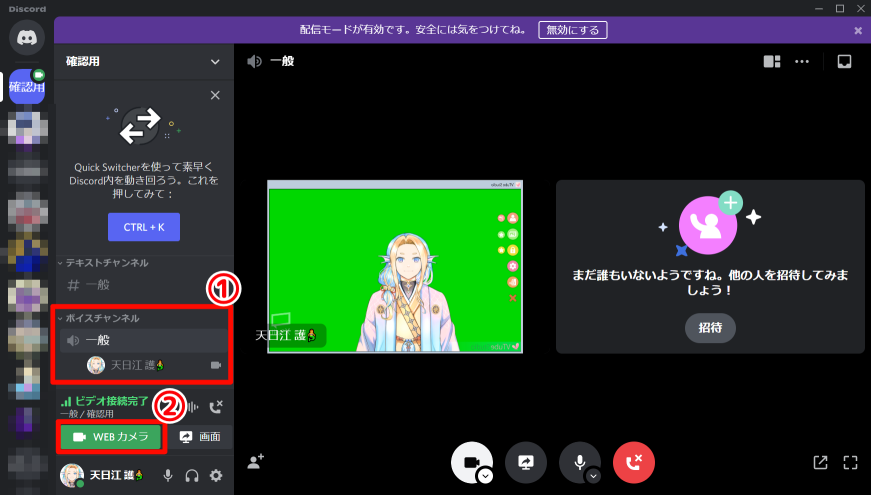
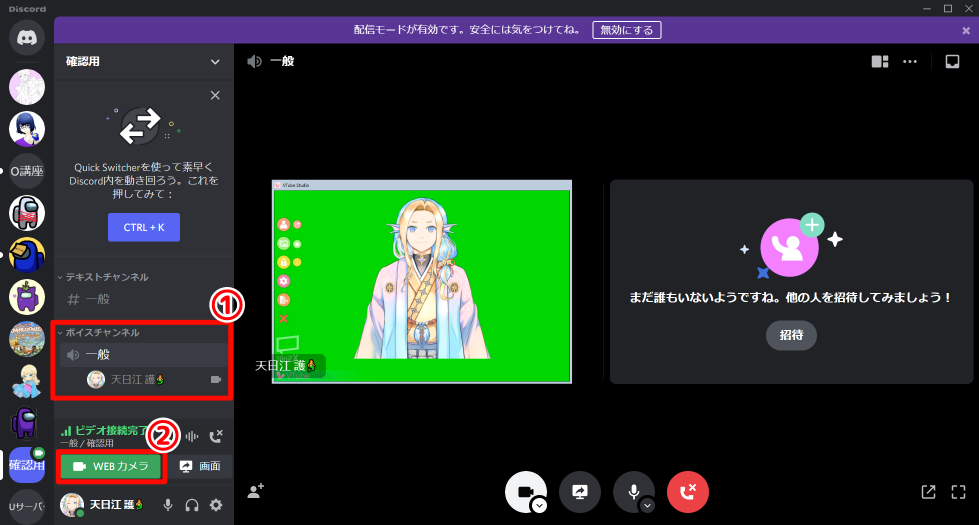
update streaming03

Changed region(s): [[0.0, 0.0, 1.0, 1.0], [0.496, 0.8788, 0.775, 1.0], [0.93, 0.9091, 0.992, 0.9697]]

diff --git a/src/components/KnowHow/Streaming01.tsx b/src/components/KnowHow/Streaming01.tsx
@@ -4,7 +4,8 @@ import { Link } from 'react-router-dom';
 import '../../styles/KnowHow/Base.scss';
 import img_vtube_studio_x_discord from '../../images/know-how/vtube-studio-x-discord.png';
 import img_prepare from '../../images/know-how/vtube-studio-x-discord/prepare.png';
-import img_xsplit from '../../images/know-how/vtube-studio-x-discord/xsplit-broadcaster.png';
+import img_xsplit01 from '../../images/know-how/vtube-studio-x-discord/xsplit-broadcaster01.png';
+import img_xsplit02 from '../../images/know-how/vtube-studio-x-discord/xsplit-broadcaster02.png';
 import img_discord01 from '../../images/know-how/vtube-studio-x-discord/discord01.png';
 import img_discord02 from '../../images/know-how/vtube-studio-x-discord/discord02.png';
 import img_discord03 from '../../images/know-how/vtube-studio-x-discord/discord03.png';
@@ -12,7 +13,7 @@ import img_discord03 from '../../images/know-how/vtube-studio-x-discord/discord0
 const Index: React.FC = () => {
   return (
     <div className="kh-show">
-      {Head}
+      <Head />
       <h2>VTube Studio と Discord を使って共演 VTuber をぬるぬる動かす</h2>
       <p className="kh-show-timestamp">2021.08.21</p>
       <p className="kh-show-image">
@@ -39,8 +40,9 @@ const Index: React.FC = () => {
       </p>
       <h3>準備するもの</h3>
       <p>
-        下記は全てリンクになっています。インストール済みの状態である前提で話していきます。<br />
-        VTube Studio はトラッキングのためアプリ側で課金が必要です。
+        インストール済みの状態である前提で話していきます。<br />
+        VTube Studio はトラッキングのためアプリ側で課金が必要です。<br />
+        ※以下は全てダウンロードリンクになっています。
       </p>
       <ul>
         <li><a href="https://discord.com/download" target="_blank" rel="noreferrer">Discord</a></li>
@@ -58,27 +60,36 @@ const Index: React.FC = () => {
       <p>
         XSplit Broadcaster で OBS のように<br />
         [Add Source] -&gt; [Screen Capture] -&gt; [Window Capture] -&gt; [VTube Studio (VTube Studio.exe)]<br />
-        として VTube Studio を表示。<br />
+        として VTube Studio を表示します。<br />
         ※ OBS のように Alt 押しながらウィンドウの端を左クリックしてクリップ可能
       </p>
       <p className="kh-show-image">
-        <img src={img_xsplit} alt="XSplit Broadcaster の設定" />
+        <img src={img_xsplit01} alt="XSplit Broadcaster の設定" />
       </p>
       <p>
-        Discord の設定アイコンを押す
+        このあとミラーしておくと配信時に反転しなくてすむので反転させておきます。<br />
+        [Window "VTubeStudio" in "vtube studio.exe" process] を右クリックしてプロパティを表示。<br />
+        [Layout] のタブから [2D/3D Transform] の項目の左右を反転しそうな Flip アイコンを選択しておきます。
+      </p>
+      <p className="kh-show-image">
+        <img src={img_xsplit02} alt="XSplit Broadcaster で反転" />
+      </p>
+      <p>
+        Discord での操作に移ります。<br />
+        まずは設定アイコンを押します。
       </p>
       <p className="kh-show-image">
         <img src={img_discord01} alt="Discord の設定アイコンを選択" />
       </p>
       <p>
-        設定中段にある [音声・ビデオ] の中段にある [ビデオ設定] の項目でカメラを [XSplitBroadcaster] を選択。<br />
-        念の為、ビデオをテストで表示されるかを確認する
+        設定中段にある [音声・ビデオ] の中段にある [ビデオ設定] の項目でカメラに [XSplitBroadcaster] を選択。<br />
+        念の為、[ビデオをテスト] で表示されるかを確認します。
       </p>
       <p className="kh-show-image">
         <img src={img_discord02} alt="Discord のビデオの設定" />
       </p>
       <p>
-        共演者とやりとりするボイスチャンネルに入り、 [WEB カメラ] のボタンを押して VTube Studio の内容が表示されるか確認する。<br />
+        共演者とやりとりするボイスチャンネルに入り、 [WEB カメラ] のボタンを押して VTube Studio の内容が表示されるか確認します。<br />
       </p>
       <p className="kh-show-image">
         <img src={img_discord03} alt="Discord で WEB カメラで起動" />
@@ -86,13 +97,12 @@ const Index: React.FC = () => {
       <p>
         あとは、 OBS で Discord をウィンドウキャプチャしてクロマキーで緑を抜けば共演者と一緒にぬるぬる動けます！<br />
         一人で設定の確認もできるのでこだわりのある方は一度この方法試してみてはいかがでしょうか？<br />
-        (配信前に共演者の方々と準備する時間が増えますが...)
+        相当な CPU やネットワークを消費するのでご利用は計画的に。
       </p>
       <p className="kh-show-margin20">
         では、よき配信ライフを〜🧜♂
       </p>
-
-      {BackButton}
+      <BackButton />
     </div>
   );
 }
@@ -109,9 +119,9 @@ const BackButton: React.FC = () => {
 
 const Head: React.FC = () => {
   const title = 'VTube Studio と Discord を使って共演 VTuber をぬるぬる動かす';
-  const url = 'https://amabie-labo.com/know_how/streaming01'
+  const url = 'https://amabie-labo.com/know_how/streaming01';
   const description = '共演者や自分を共演者の配信画面上でぬるぬる動かすための方法についてお伝えします。';
-  let img = img_vtube_studio_x_discord;
+  const img = `https://amabie-labo.com${img_vtube_studio_x_discord}`;
   return (
     <Helmet>
       <meta property="og:title" content={title} />
